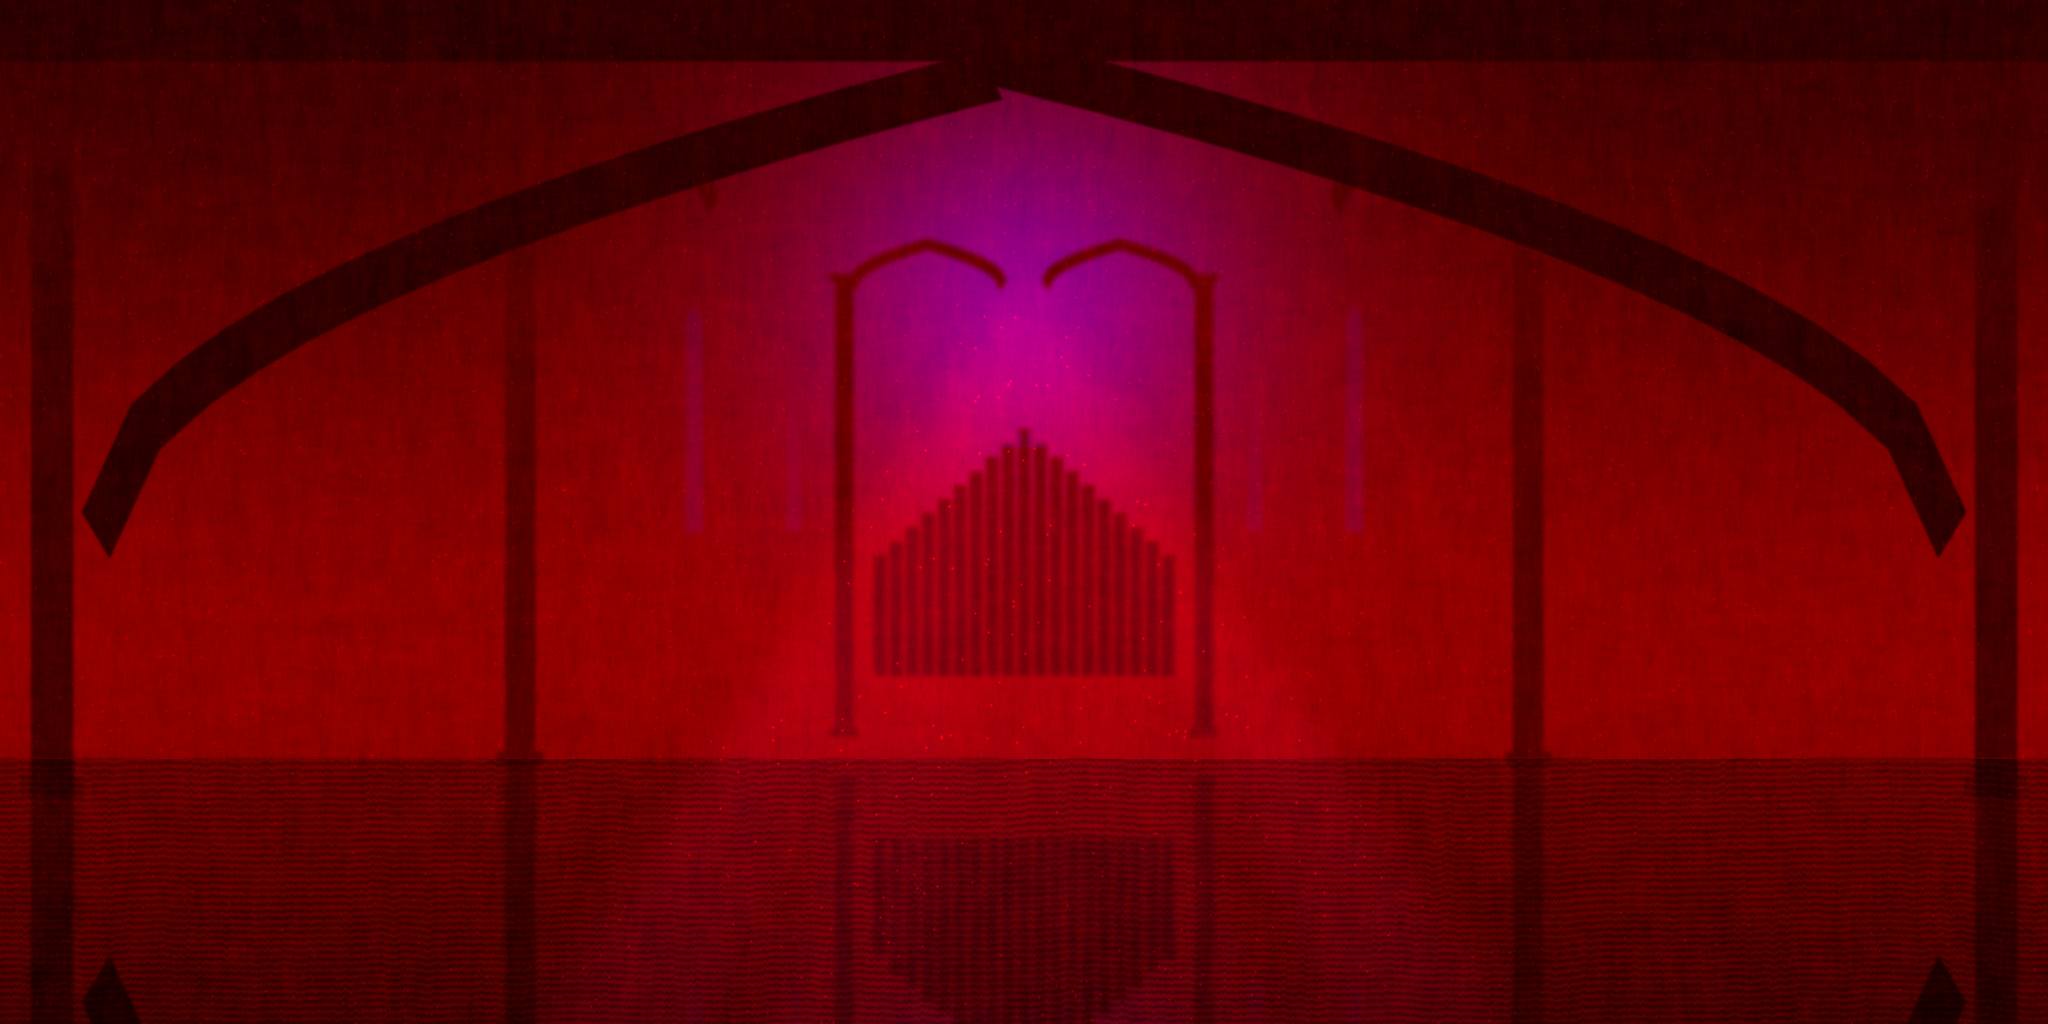
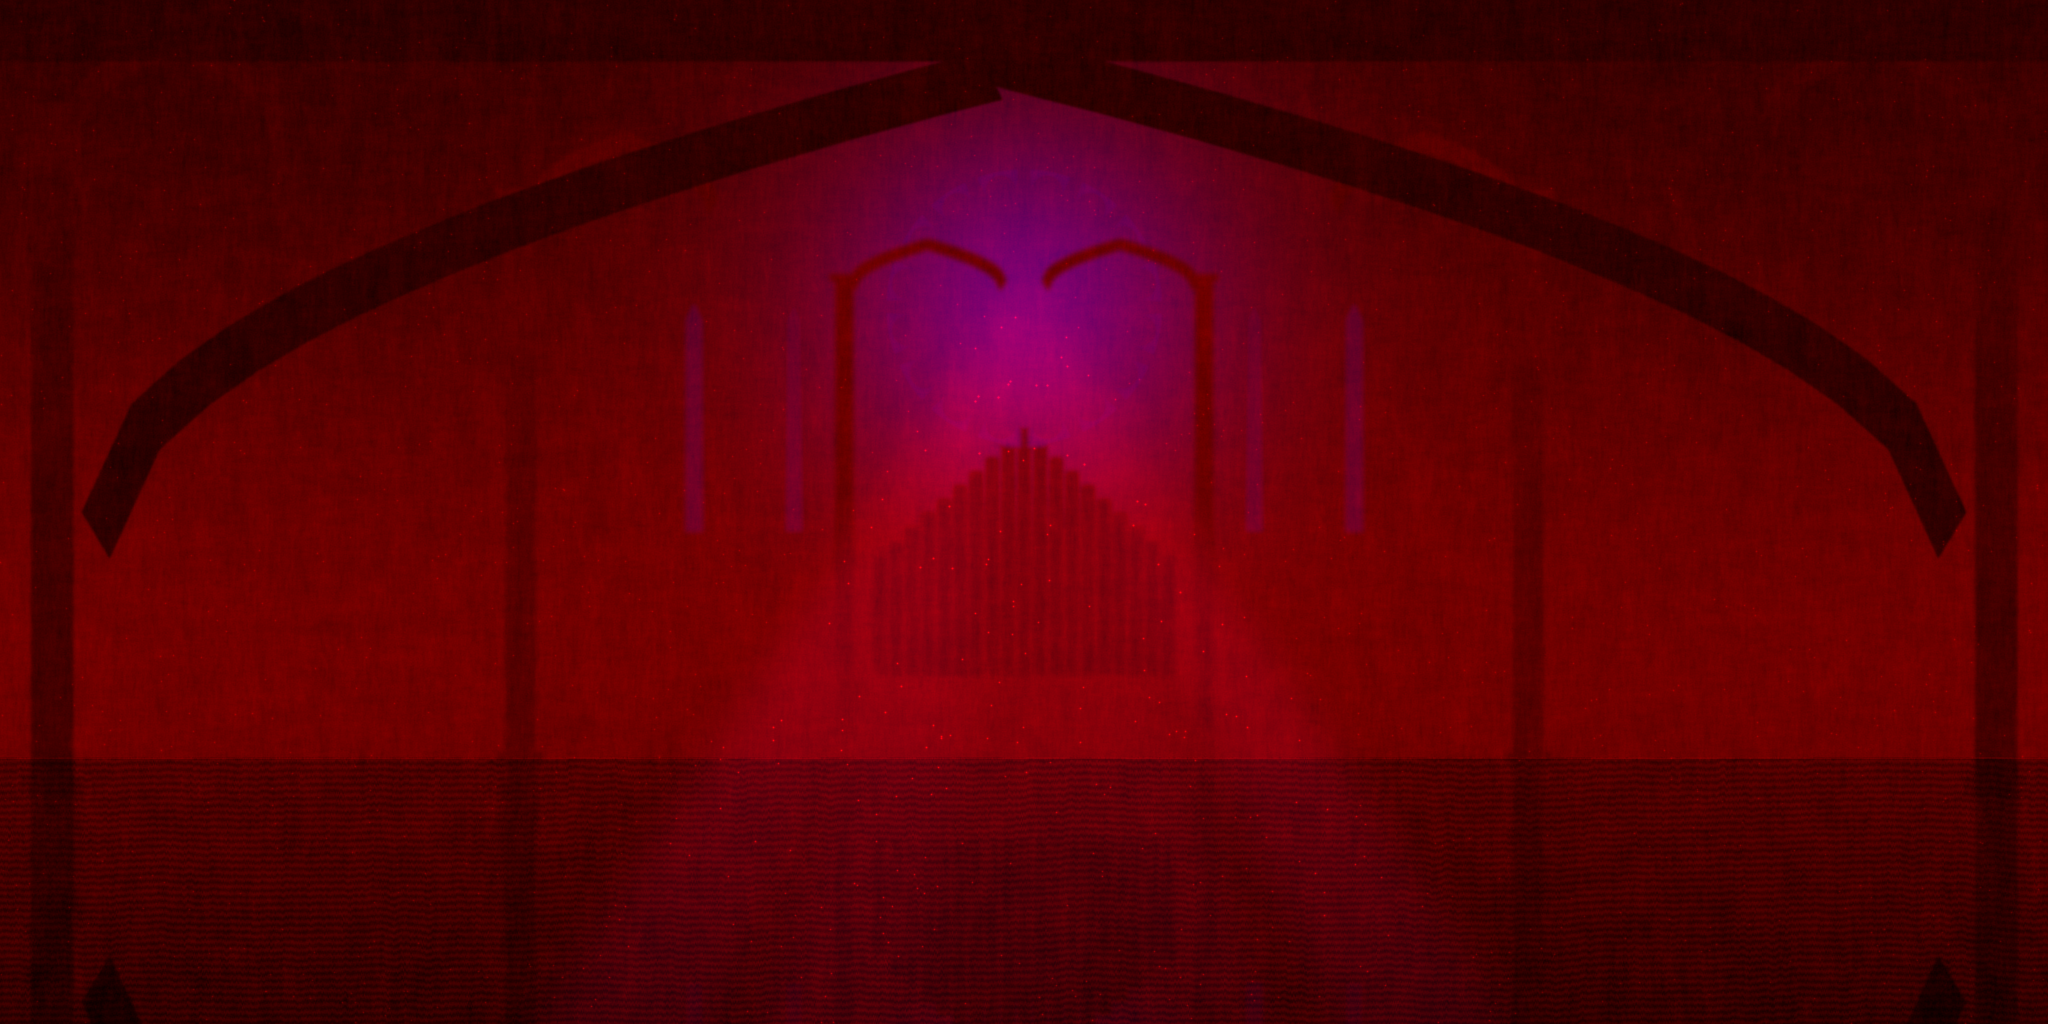
Godot: Maren unlit by her own lamp, water reflections, calmer Choir
- Maren draws on her own layer and light-mask bit: room lamps, the key
  light and the story-focus light reach her, her lantern and aura
  only light the world, so her helmet and faceplate stop burning out.
- Water mirrors what stands above it (the screen behind it, flipped
  about each pool's own surface, carried in the span's vertex colour),
  rippled, softer and fainter with depth.
- The Choir vista's haze, source and rays toned down so the columns no
  longer stripe against it.
- Full suite headless: 256 checks pass.

Claude-Session: https://claude.ai/code/session_01SP1MJFMxSzEKkqN2wXa31e

diff --git a/godot/src/View/WorldView.cs b/godot/src/View/WorldView.cs
@@ -31,6 +31,8 @@ public partial class WorldView : Node2D
 
     CanvasModulate modulate;
     bool silhouettes = true;
+    DrawLayer maren;
+    const int MAREN_BIT = 2;   // the light-mask bit Maren's layer is on
     LightingManager lighting;
     DirectionalLight2D keyLight;
     ShaderMaterial fogBackMat, fogFrontMat;
@@ -119,6 +121,11 @@ public partial class WorldView : Node2D
         var entMat = new ShaderMaterial { Shader = entShader };
         entities = Add(new DrawLayer { Paint = PaintEntities, Material = entMat });
         lighting.RegisterEntity(entMat);
+        // Maren on her own light bit: the room's lamps and the key light reach her, her own lantern and aura do not
+        // (they light the world around her, the way a Hollow Knight character is never lit by its own glow)
+        var marenMat = new ShaderMaterial { Shader = entShader };
+        maren = Add(new DrawLayer { Paint = PaintMaren, Material = marenMat, LightMask = MAREN_BIT });
+        lighting.RegisterEntity(marenMat);
         water = Add(new DrawLayer { Paint = PaintWater });
         waterMat = new ShaderMaterial { Shader = GD.Load<Shader>("res://shaders/water.gdshader") };
         water.Material = waterMat;
@@ -145,7 +152,7 @@ public partial class WorldView : Node2D
         aura = new PointLight2D { Texture = lightTex, Color = new Color(1f, 0.88f, 0.7f), Energy = 0.8f, ShadowEnabled = true, ShadowFilter = Light2D.ShadowFilterEnum.Pcf5, ShadowFilterSmooth = 2f, Height = 30 };
         lightRoot.AddChild(aura);
         // the region's key light: the moon outdoors (with shadows), a soft fill from the region's light indoors
-        keyLight = new DirectionalLight2D { ShadowEnabled = false, ShadowFilter = Light2D.ShadowFilterEnum.Pcf5, ShadowFilterSmooth = 3f, Energy = 0.3f };
+        keyLight = new DirectionalLight2D { ShadowEnabled = false, ShadowFilter = Light2D.ShadowFilterEnum.Pcf5, ShadowFilterSmooth = 3f, Energy = 0.3f, RangeItemCullMask = 1 | MAREN_BIT };
         lightRoot.AddChild(keyLight);
         lighting.KeyLight = keyLight;
 
@@ -306,8 +313,8 @@ public partial class WorldView : Node2D
         // the foreground opens a window around Maren rather than hide her
         foreMat.SetShaderParameter("cut_pos", new Vector2((p.Cx() - G.cam.X) / VW, (p.Cy() - G.cam.Y) / VH));
         foreMat.SetShaderParameter("cut_r", p.dead ? 0f : 0.16f);
-        foreach (var l in new[] { sky, far, midL, nearL, back, deco, entities, water, waterLines, solid, haze, dyn, fxShaded, fxGlow, fxText, fore, foreMotes, rain, overlay, hud }) l.QueueRedraw();
-        if (sky.Name != "sky") { sky.Name = "sky"; far.Name = "far"; midL.Name = "mid"; nearL.Name = "near"; back.Name = "back"; deco.Name = "deco"; entities.Name = "entities"; water.Name = "water"; waterLines.Name = "waterLines"; solid.Name = "solid"; dyn.Name = "dyn"; fxShaded.Name = "fxShaded"; fxGlow.Name = "fxGlow"; fxText.Name = "fxText"; fore.Name = "fore"; foreMotes.Name = "foreMotes"; rain.Name = "rain"; overlay.Name = "overlay"; hud.Name = "hud"; }
+        foreach (var l in new[] { sky, far, midL, nearL, back, deco, entities, maren, water, waterLines, solid, haze, dyn, fxShaded, fxGlow, fxText, fore, foreMotes, rain, overlay, hud }) l.QueueRedraw();
+        if (sky.Name != "sky") { sky.Name = "sky"; far.Name = "far"; midL.Name = "mid"; nearL.Name = "near"; back.Name = "back"; deco.Name = "deco"; entities.Name = "entities"; maren.Name = "maren"; water.Name = "water"; waterLines.Name = "waterLines"; solid.Name = "solid"; dyn.Name = "dyn"; fxShaded.Name = "fxShaded"; fxGlow.Name = "fxGlow"; fxText.Name = "fxText"; fore.Name = "fore"; foreMotes.Name = "foreMotes"; rain.Name = "rain"; overlay.Name = "overlay"; hud.Name = "hud"; }
     }
 
     // Colours every encoded layer from the region's palette, drifting with the tide.
@@ -357,7 +364,7 @@ public partial class WorldView : Node2D
         srcs.AddRange(Decor.Lights(decor, G.Now, ViewRect()).OrderBy(l => (new Vector2(l.x, l.y) - mid).LengthSquared()).Take(10));
         while (pool.Count < srcs.Count)
         {
-            var pl = new PointLight2D { Texture = lightTex, ShadowFilter = Light2D.ShadowFilterEnum.Pcf5, ShadowFilterSmooth = 2f, Height = 34 };
+            var pl = new PointLight2D { Texture = lightTex, ShadowFilter = Light2D.ShadowFilterEnum.Pcf5, ShadowFilterSmooth = 2f, Height = 34, RangeItemCullMask = 1 | MAREN_BIT };
             lightRoot.AddChild(pl); pool.Add(pl);
         }
         // the same lights, and the windows, feed the radiance buffer the world's bounce light comes from
@@ -581,9 +588,6 @@ public partial class WorldView : Node2D
         c.Flash = 0;
         Gore.DrawPieces(c);
         Hollow.DrawWorld(c);
-        var pm = c.Mark();
-        G.player.Draw(c);
-        if (silhouettes && !G.player.dead) Silhouette(c, pm, G.player.Cx(), G.player.Cy());
         foreach (var pr in G.projectiles) pr.Draw(c);
         foreach (var s in G.enemyShots) { c.StrokeStyle = "#a0b0b8"; c.LineWidth = 1.5f; c.Line(s.x, s.y, s.x - s.vx * 0.02f, s.y - s.vy * 0.02f); }
         foreach (var m in motes)
@@ -597,6 +601,14 @@ public partial class WorldView : Node2D
                 default: c.Fill = H.Rgba(220, 210, 180, 0.35f); c.FillRect(m.x, m.y, 1, 1); break;
             }
         }
+    }
+
+    void PaintMaren(Canvas c)
+    {
+        if (G.room == null || G.player == null) return;
+        var pm = c.Mark();
+        G.player.Draw(c);
+        if (silhouettes && !G.player.dead) Silhouette(c, pm, G.player.Cx(), G.player.Cy());
     }
 
     // Characters stand off the world the way they do in Hollow Knight: a crisp dark edge on the side away from the
@@ -642,7 +654,11 @@ public partial class WorldView : Node2D
             if (span.Count >= 2)
             {
                 var pts = new List<Vector2>(span) { new(span[^1].X, bottom), new(span[0].X, bottom) };
-                c.Fill = Colors.White; c.Poly(pts.ToArray());
+                // the span's surface, in screen UV, carried to the shader in the vertex colour for its reflection
+                float sy = float.PositiveInfinity; foreach (var q in span) sy = MathF.Min(sy, q.Y);
+                float enc = Math.Clamp(((sy - cam.Y) / VH + 1) / 3, 0, 1);
+                float hi = MathF.Floor(enc * 255) / 255, lo = enc * 255 - MathF.Floor(enc * 255);
+                c.Fill = new Color(hi, lo, 0, 1); c.Poly(pts.ToArray());
             }
             span.Clear();
         }
@@ -667,6 +683,8 @@ public partial class WorldView : Node2D
             waterMat.SetShaderParameter("caustic_col", new Vector3(pal.glow.R, pal.glow.G, pal.glow.B) * 0.75f);
         }
         waterMat.SetShaderParameter("top_y", top);
+        waterMat.SetShaderParameter("ambient_mod", new Vector3(lighting.Ambient.R, lighting.Ambient.G, lighting.Ambient.B));
+        waterMat.SetShaderParameter("reflect_amt", r.Brine ? 0.3f : r.Deep ? 0.45f : 0.72f);
     }
 
     void PaintWaterLines(Canvas c)

diff --git a/tools/paint_vistas.py b/tools/paint_vistas.py
@@ -339,9 +339,9 @@ def cloister(rng):
 
 def choir(rng):
     # the nave of the great choir: columns receding to the rose window, the floor drowned and mirroring it
-    V = Vista(rng, 0.24, 0.56, 0.4, 0.66)
+    V = Vista(rng, 0.22, 0.44, 0.34, 0.66)
     cx, cy = W * 0.5, H * 0.3
-    V.source(cx, cy, 460, 0.38, 0.55)
+    V.source(cx, cy, 420, 0.26, 0.45)
     far = Layer()
     rose(far, cx, cy, 150)
     for dx in (-330, -230, 230, 330): lancet(far, cx + dx, H * 0.3, 18, H * 0.22, 120)
@@ -350,7 +350,7 @@ def choir(rng):
         h = 120 + (9 - abs(k)) * 14
         far.rect(cx + k * 16 - 6, H * 0.66 - h, cx + k * 16 + 6, H * 0.66)
     V.add(far, 0.4, 2.4, glow_v=0.32)
-    V.rays(cx, cy, [-0.5, -0.25, 0.0, 0.25, 0.5], H * 0.9, 50, 0.24, 20)
+    V.rays(cx, cy, [-0.5, -0.25, 0.0, 0.25, 0.5], H * 0.9, 50, 0.16, 20)
     # columns marching away on both sides toward the window
     vp = (cx, H * 0.4)
     for depth in range(4):

diff --git a/README.md b/README.md
@@ -84,7 +84,7 @@ The game saves when you rest or save at a Bell Room. Continue from the title scr
 - **The Mere's Hollow** (`Hollow.cs`), a relic the sea gives Maren on the Long Pier, with four water verses. See [The Mere's Hollow](#the-meres-hollow).
 - **Lighting and depth** (`LightingManager.cs`, `shaders/world.gdshader`). Direct light from every lamp, fire and the lantern with 2D shadows, shading painted relief (each brick turns toward the light, wet stone below the tide line glints); indirect light as a sky/ground hemisphere plus a bounce buffer every lamp splats into, so light spills round corners and warms whatever stands near a fire; a key light per region (the moon outdoors, with shadows). Each region has a mood (ambient, key light, fog, wetness, depth of field and a colour grade) that blends over a few seconds when you cross into the next. Fog with a body hangs between the depths and the play, lit from inside by the lamps, with light shafts falling at the region's angle and dust turning in them; in front of it the ruin's own bones stand in near-black silhouette (the vault's broken ribs and piers, a candle corona on its chains, the Saltworks' pipes and hoists, the Saint's spine); the depths darken toward the vault and are out of focus, as is the foreground, which thins to a window wherever it would hide Maren; and bloom lets every lamp glow into the air. See [the graphics blueprint](godot/docs/GRAPHICS.md).
 - **Walls that remember** (`Masonry.cs`): ashlar courses with chipped edges, damp, drip streaks under every ledge, soot above every lamp that burned, moss, salt bloom and gilt by region, and in the tidal rooms the sea's own record: green stone below the high-water line, a salt rind, barnacles, and a storm line far higher from the night the light went out.
-- **Made art, where it exists** (`Art.cs`, `godot/art`). Every wall and stretch of rock carries a tiling surface material with its own normal map, so lamplight rakes across limestone, brick, salt-rotted rock, bone, flesh and basalt rather than flat paint; each region has a painted far vista (a drowned chapel at the back of a sea cave, the salt halls and their wheels, the cloister garth, the rose window over the flooded Choir, the inside of the giant's ribcage, the Gullet's throat, the Skull's eye sockets open on the night); and characters get an ink edge and a rim in the nearest lamp's colour so they stand off the world. Art is stored in the same value/accent/glow encoding as the rooms, so the tide still recolours it, and the game falls back to its own drawing wherever a file is missing. `tools/paint_materials.py` and `tools/paint_vistas.py` paint the current set; [ART.md](godot/docs/ART.md) explains how an artist adds or replaces art.
+- **Made art, where it exists** (`Art.cs`, `godot/art`). Every wall and stretch of rock carries a tiling surface material with its own normal map, so lamplight rakes across limestone, brick, salt-rotted rock, bone, flesh and basalt rather than flat paint; each region has a painted far vista (a drowned chapel at the back of a sea cave, the salt halls and their wheels, the cloister garth, the rose window over the flooded Choir, the inside of the giant's ribcage, the Gullet's throat, the Skull's eye sockets open on the night); characters get an ink edge and a rim in the nearest lamp's colour so they stand off the world, and Maren is never lit by her own lantern, so her brass helmet keeps its shape. Water mirrors what stands above it, rippled and fading with depth, so the flooded Choir holds its lamps. Art is stored in the same value/accent/glow encoding as the rooms, so the tide still recolours it, and the game falls back to its own drawing wherever a file is missing. `tools/paint_materials.py` and `tools/paint_vistas.py` paint the current set; [ART.md](godot/docs/ART.md) explains how an artist adds or replaces art.
 - **Monuments and story focus** (`Monuments.cs`, `StoryFocus.cs`). Ten rooms have a monument standing behind the play that tells what happened there: the first Hult holding up a lamp with no flame in it, a board of little boats for every ship the reef took, the tithe scales, the Abbot with salt growing out of his palm, a brother with his hands over his eyes, the last Bell-Roper still holding his rope, the great bell fallen through the Choir floor, a child's mitten on the highest climbing peg, a ship half swallowed by the Gullet and the cracked lighthouse lens. Stop near one (or an unread carving, a bell, the font) and the world notices: the camera eases toward it and follows more loosely, the frame leans in, the background softens, the light warms to its colour and a soft light comes up on it, and if she stays a moment Maren has a thought about it. Never in a fight: anything hostile nearby lets it all go at once.
 
 **Play on Windows:** unzip `Hollowmere-Godot-Windows.zip` and run `Hollowmere.exe`. Keep the `data_Hollowmere_windows_x86_64` folder next to it; it holds the .NET runtime. Saves live in `%APPDATA%\Godot\app_userdata\Hollowmere`.

diff --git a/godot/docs/GRAPHICS.md b/godot/docs/GRAPHICS.md
@@ -51,8 +51,12 @@ each rendering its own sorting layers, with a render texture in between for blur
     0   back wall (bake)           1.0       ashlar masonry and its weathering (Masonry.cs),     world.gdshader: relief,
                                              windows, architecture, monuments (Monuments.cs)     Light2D, hemisphere, bounce
     0   deco                       1.0       swaying props drawn live: kelp, chains, candles     world.gdshader
-    0   entities                   1.0       Maren, the drowned, objects, gore                   entity.gdshader + Light2D
-    0   water, water lines         1.0       the sea and pools (water.gdshader)                  own shader
+    0   entities                   1.0       the drowned, objects, gore                          entity.gdshader + Light2D
+    0   maren                      1.0       Maren alone, on her own light-mask bit: the room's  entity.gdshader + Light2D
+                                             lamps and the key light reach her, her own lantern  (not her own)
+                                             and aura do not
+    0   water, water lines         1.0       the sea and pools, mirroring what stands above      own shader + the screen
+                                             them (water.gdshader)                               behind it
     0   solid rock (bake)          1.0       the rock Maren walks on (Terrain.cs)                world.gdshader
     0   front haze                 1.1       a thin mist in front of the world                   radiance buffer
     0   dyn, fx (shaded/glow/text) 1.0       salt crystals, sparks, embers, whispers             world/entity/additive
@@ -84,7 +88,8 @@ The planes are kept apart by what reaches them, not only by draw order:
    Characters are drawn in their own colours with one bright note (Maren's helmet, a body's knots), and each
    gets a crisp ink edge on the side away from the light and a rim in the nearest lamp's colour on the side that
    faces it (copies of its own triangles, shifted a fraction of a pixel, behind it in the same batch), so they
-   stand off any background the way Hollow Knight's figures do.
+   stand off any background the way Hollow Knight's figures do. Maren is never lit by her own lantern or aura
+   (they light the world around her), so her brass helmet and faceplate keep their shape instead of burning out.
 3. **Focus.** Far and mid are blurred (a rotated 12-tap Poisson disc in `palette.gdshader`); the gameplay plane is
    always sharp; the foreground is blurred hardest. StoryFocus can pull the background further out of focus.
 4. **Atmosphere between them.** The back fog plane hangs between the depths and the play, so the vista always sits
@@ -93,6 +98,9 @@ The planes are kept apart by what reaches them, not only by draw order:
    hide the player. Its shader opens a soft window (radius 16% of the screen height, 30% of the silhouette left
    at the centre) around Maren's screen position every frame, so a pillar in front of her thins to a ghost of
    itself and closes again as she passes.
+6. **Water reflects.** Near the surface every pool mirrors the screen as drawn so far, flipped about its own
+   surface line (passed to the shader in each span's vertex colour), broken by ripples, softer and fainter with
+   depth: the flooded Choir holds its lamps, the Cloister's channels hold the arches.
 
 ---
 
